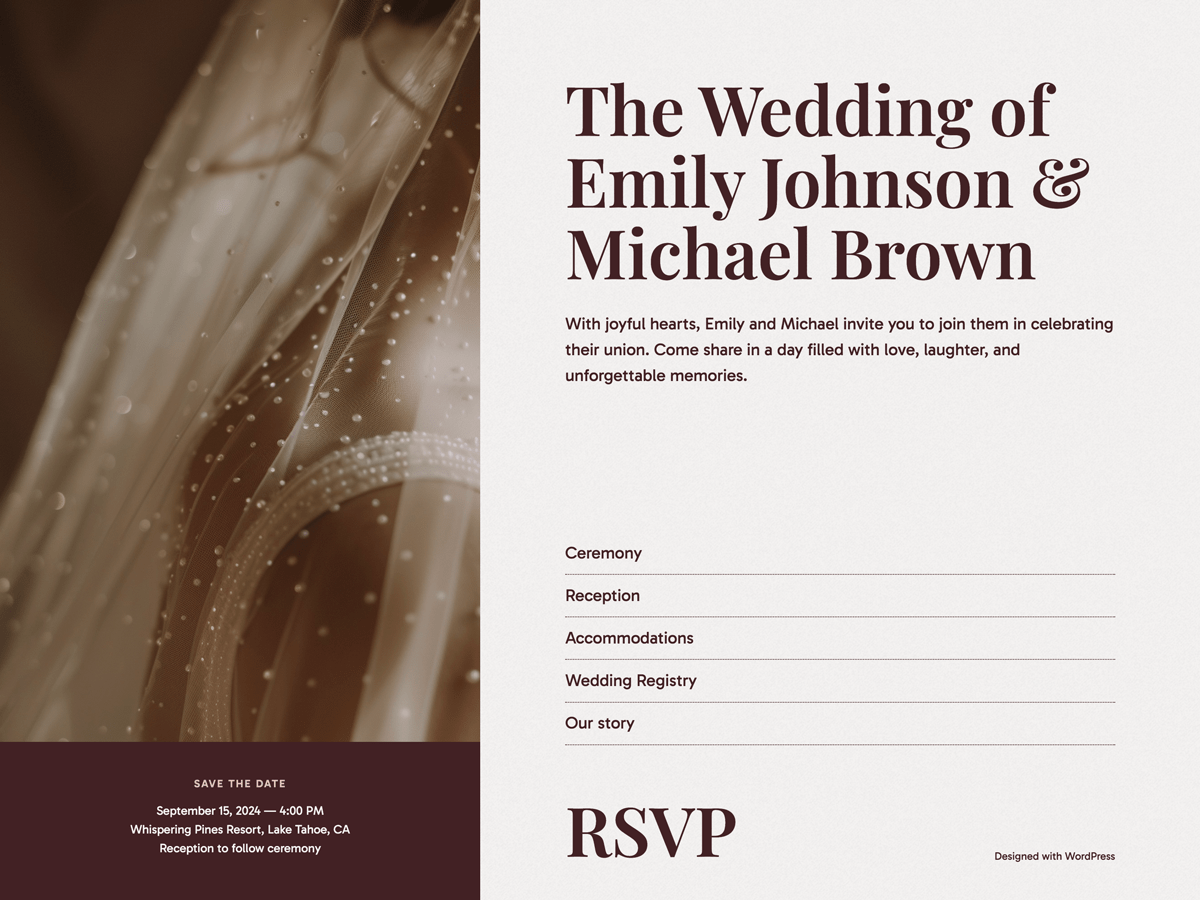
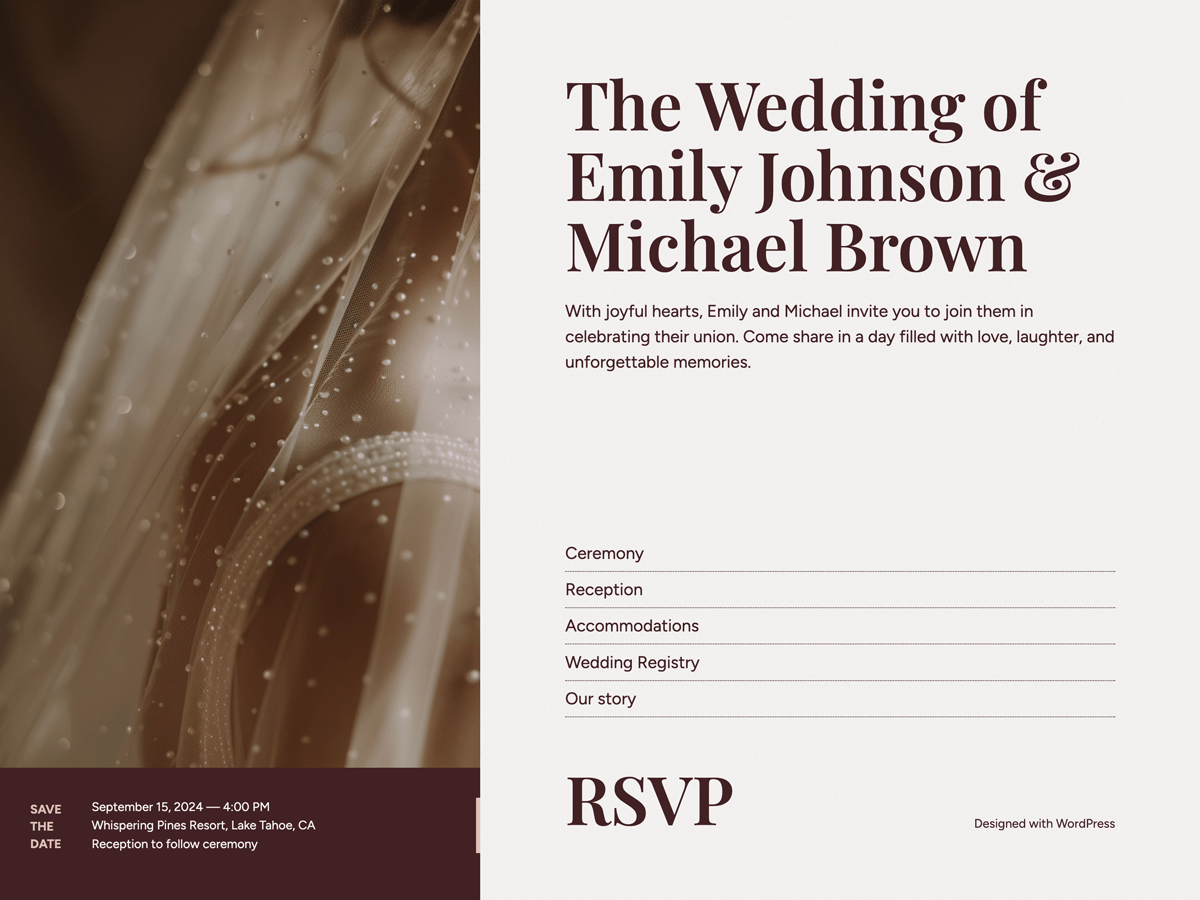
Vows: Updating readme and screenshot

diff --git a/vows/patterns/header.php b/vows/patterns/header.php
@@ -8,8 +8,8 @@
 ?>
 <!-- wp:cover {"url":"<?php echo esc_url( get_stylesheet_directory_uri() ); ?>/assets/images/header-background.jpg","dimRatio":10,"overlayColor":"contrast","isUserOverlayColor":true,"minHeight":100,"minHeightUnit":"vh","style":{"spacing":{"padding":{"top":"0","bottom":"0","left":"0","right":"0"}}},"layout":{"type":"default"}} -->
 <div class="wp-block-cover" style="padding-top:0;padding-right:0;padding-bottom:0;padding-left:0;min-height:100vh"><span aria-hidden="true" class="wp-block-cover__background has-contrast-background-color has-background-dim-10 has-background-dim"></span><img class="wp-block-cover__image-background" alt="<?php echo __('', 'vows');?>" src="<?php echo esc_url( get_stylesheet_directory_uri() ); ?>/assets/images/header-background.jpg" data-object-fit="cover"/><div class="wp-block-cover__inner-container"><!-- wp:group {"style":{"spacing":{"padding":{"top":"0","bottom":"0","left":"0","right":"0"},"margin":{"top":"0","bottom":"0"}},"dimensions":{"minHeight":"100vh"},"elements":{"link":{"color":{"text":"var:preset|color|base"},":hover":{"color":{"text":"var:preset|color|base"}}}}},"textColor":"base","layout":{"type":"flex","orientation":"vertical","verticalAlignment":"bottom","justifyContent":"stretch"}} -->
-<div class="wp-block-group has-base-color has-text-color has-link-color" style="min-height:100vh;margin-top:0;margin-bottom:0;padding-top:0;padding-right:0;padding-bottom:0;padding-left:0"><!-- wp:group {"style":{"spacing":{"blockGap":"var:preset|spacing|60","padding":{"top":"var:preset|spacing|60","bottom":"var:preset|spacing|60","left":"var:preset|spacing|60","right":"0"}},"layout":{"selfStretch":"fit","flexSize":null}},"backgroundColor":"contrast","layout":{"type":"flex","flexWrap":"nowrap","verticalAlignment":"top"}} -->
-<div class="wp-block-group has-contrast-background-color has-background" style="padding-top:var(--wp--preset--spacing--60);padding-right:0;padding-bottom:var(--wp--preset--spacing--60);padding-left:var(--wp--preset--spacing--60)"><!-- wp:group {"style":{"spacing":{"padding":{"top":"0.22rem","bottom":"0.22rem"}},"layout":{"selfStretch":"fit","flexSize":null}},"layout":{"type":"default"}} -->
+<div class="wp-block-group has-base-color has-text-color has-link-color" style="min-height:100vh;margin-top:0;margin-bottom:0;padding-top:0;padding-right:0;padding-bottom:0;padding-left:0"><!-- wp:group {"style":{"spacing":{"blockGap":"var:preset|spacing|60","padding":{"top":"var:preset|spacing|60","bottom":"5vh","left":"var:preset|spacing|60","right":"0"}},"layout":{"selfStretch":"fit","flexSize":null}},"backgroundColor":"contrast","layout":{"type":"flex","flexWrap":"nowrap","verticalAlignment":"top"}} -->
+<div class="wp-block-group has-contrast-background-color has-background" style="padding-top:var(--wp--preset--spacing--60);padding-right:0;padding-bottom:5vh;padding-left:var(--wp--preset--spacing--60)"><!-- wp:group {"style":{"spacing":{"padding":{"top":"0.22rem","bottom":"0.22rem"}},"layout":{"selfStretch":"fit","flexSize":null}},"layout":{"type":"default"}} -->
 <div class="wp-block-group" style="padding-top:0.22rem;padding-bottom:0.22rem"><!-- wp:heading {"textAlign":"left","level":1,"style":{"elements":{"link":{"color":{"text":"var:preset|color|primary"}}},"typography":{"textTransform":"uppercase","lineHeight":"1.4"}},"textColor":"primary","fontSize":"small","fontFamily":"figtree"} -->
 <h1 class="wp-block-heading has-text-align-left has-primary-color has-text-color has-link-color has-figtree-font-family has-small-font-size" style="line-height:1.4;text-transform:uppercase"><?php echo __('Save<br>the<br>Date', 'vows');?></h1>
 <!-- /wp:heading --></div>
